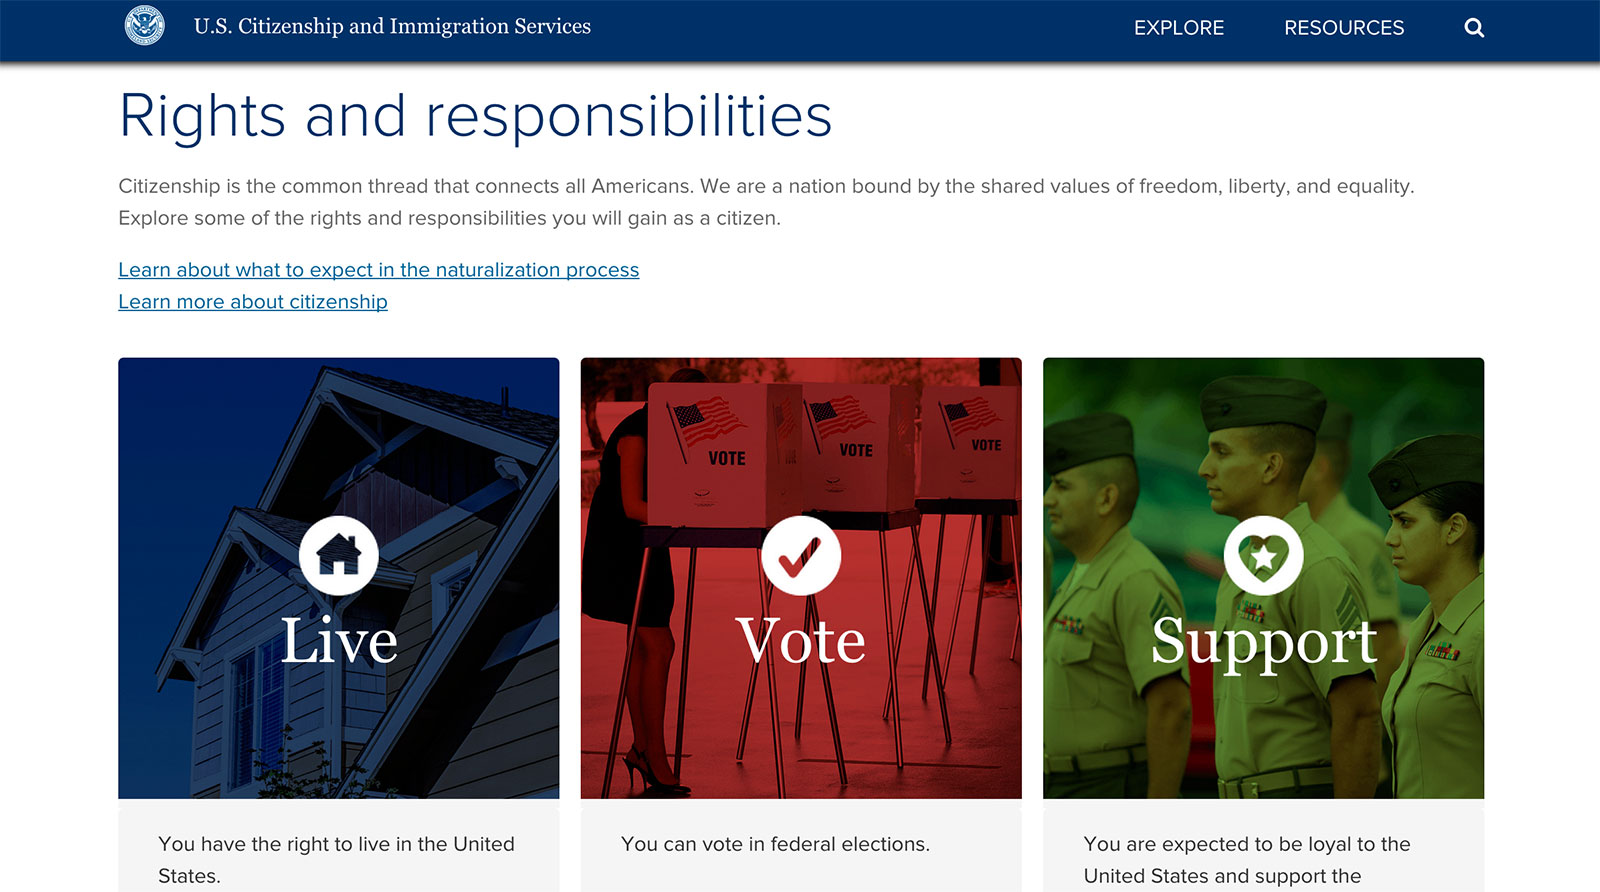
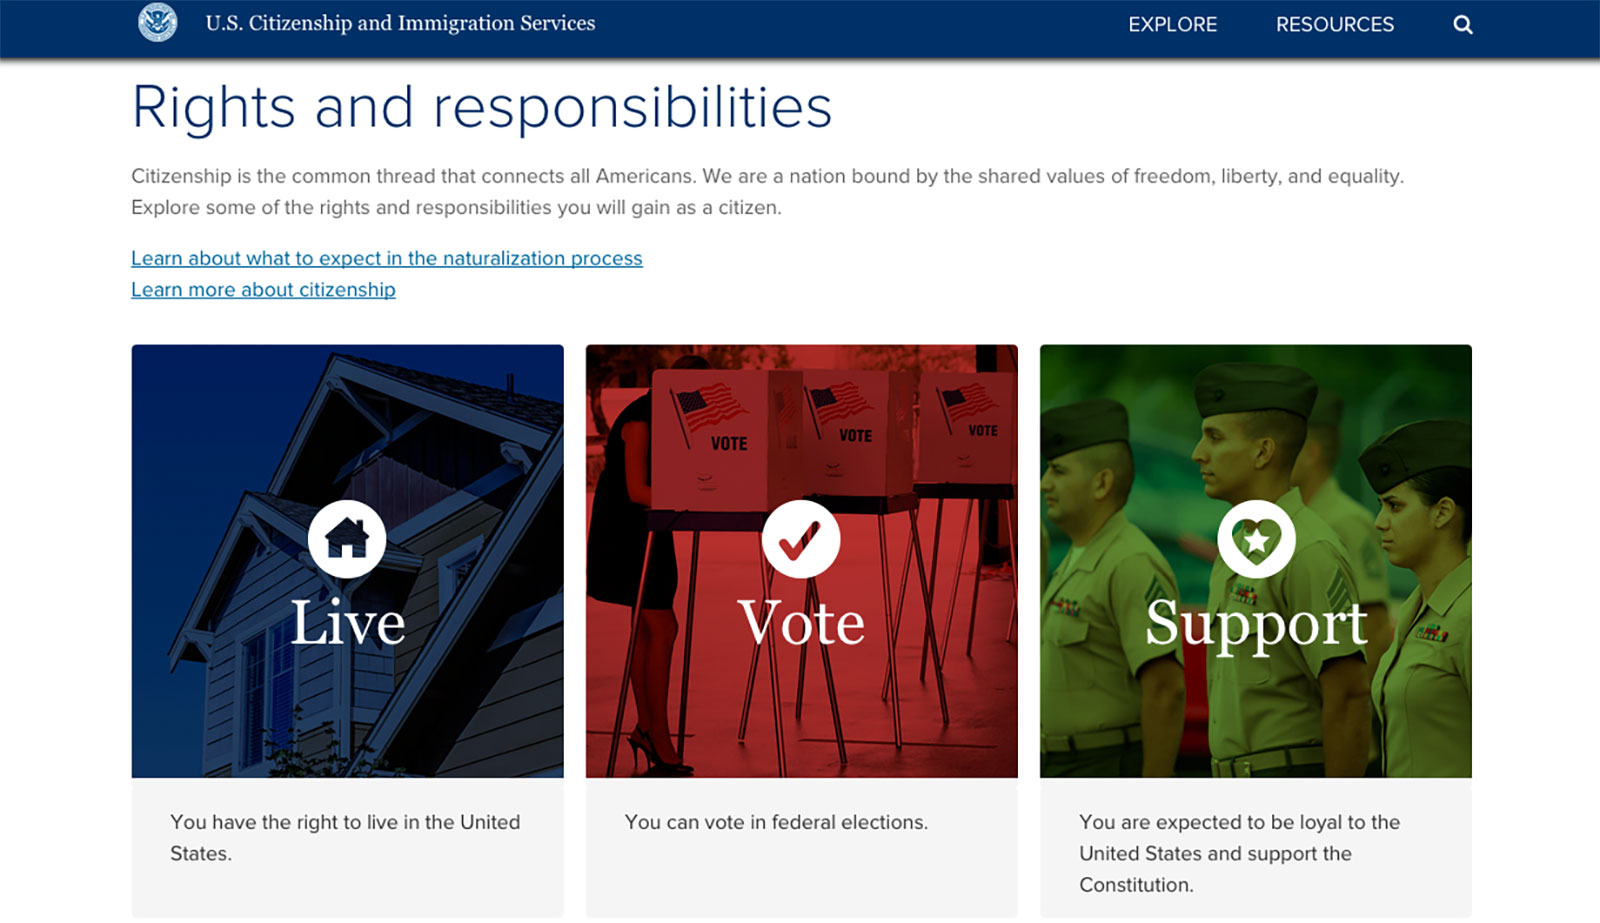
uscis post and images

diff --git a/_posts/2015-09-21-new-citizenship-resources.md b/_posts/2015-09-21-new-citizenship-resources.md
@@ -1,0 +1,157 @@
+---
+title: New citizenship resources demystify the naturalization process
+tags:
+- design
+- how we work
+- our projects
+- proactive federal partner
+authors:
+- kate
+- jhunter
+- rebeccapiazza
+- meghana
+- ryan
+excerpt: "For many people, September conjures up happy memories of heading back to school, new backpack and supplies in tow. For new and aspiring citizens, September has additional significance: It’s when the federal government celebrates Constitution Week, a weeklong observance commemorating the adoption of the U.S. Constitution."
+description: "USCIS, with the help of 18F, debuted a suite of new and updated resources for aspiring citizens to learn about the naturalization process."
+image: /assets/blog/citizenshipweek/rights-and-responsibilities.jpg
+---
+
+For many people, September conjures up happy memories of heading back to
+school, new backpack and supplies in tow. For new and aspiring citizens,
+September has additional significance: It’s when the federal government
+celebrates [Constitution
+Week](http://www.uscis.gov/news/news-releases/uscis-welcome-more-36000-citizens-during-annual-constitution-day-and-citizenship-day-celebrations),
+a weeklong observance commemorating the adoption of the [U.S.
+Constitution](http://www.archives.gov/exhibits/charters/constitution.html).
+
+Observed Sept. 17–23, Constitution Week is a time devoted to promoting
+the study of our nation’s supreme law and recognizing new citizens.
+Sept. 17 marked Constitution Day and Citizenship Day, which provides a
+time for folks to reflect on the rights and responsibilities that come
+along with U.S. citizenship. It’s also a great time for aspiring
+citizens to learn more about the naturalization process.
+
+To help promote Constitution Week, we teamed up with the [U.S.
+Citizenship and Immigration Services](http://www.uscis.gov/) (USCIS) to
+create new resources to complement existing citizenship-focused content
+as part of a national, multilingual [public awareness
+campaign](http://www.uscis.gov/citizenship/organizations/citizenship-public-education-and-awareness-campaign)
+[that launched this summer](https://committocitizenship.org/). Since
+last year, 18F has been working with USCIS to develop
+[my.uscis.gov](https://my.uscis.gov/), a customer-facing site to help
+users navigate their relationship with the agency. The team included
+contractors, USCIS, and 18F employees. The resources that were just
+announced are only the most recent effort we’ve undertaken together.
+
+Without further ado, here’s a quick rundown of the new and updated
+resources just announced by USCIS.
+
+## A new page with general information about naturalization
+
+One of the main insights we took away from our user interviews is that
+USCIS customers would like more high-level information about the
+naturalization process: What it involves, how long it takes, what
+expectations USCIS has of the customer, and so on.
+
+Our goal was to provide a single, easy-to-read reference for customers
+who are still deciding whether to apply for citizenship. It was our hope
+that, by seeing the steps of the naturalization process outlined,
+aspiring citizens might feel more optimistic about the process and more
+quickly get started with their applications.
+
+To meet this user need, we created a [What to
+expect](https://my.uscis.gov/citizenship/what_to_expect) page. Using
+clear, straightforward language, the page describes the main steps in
+the naturalization process, offering customers a comprehensive view of
+what they’re about to get into.
+
+## A new page that better communicates the rights and responsibilities of citizenship
+
+Another of our goals was to provide USCIS customers with a quick
+reference to the rights and responsibilities of U.S. citizens. [The
+Citizenship Resource Center](http://www.uscis.gov/citizenship)
+(CRC) already provides some great
+in-depth materials, and we drew on these as we built out a [new
+marketing page](https://my.uscis.gov/citizenship/information).
+
+If the CRC’s goal is to provide a comprehensive account of all the
+rights and responsibilities new citizens should know about, our goal was
+to translate that information into a fun, engaging page that would
+capture new customers’ attention. Our new, highly visual page links out
+to the existing CRC resources, making it easy for customers to quickly
+access more detailed information.
+
+![A screenshot of part of the new USCIS rights and responsibilities page](/assets/blog/citizenshipweek/rights-and-responsibilities.jpg)
+
+*The new USCIS rights and responsibilities page.*
+
+## More study resources for the civics test
+
+If you’re not familiar with the naturalization process, you might not
+know that all would-be citizens are required to take a civics test as
+part of their application process. The test covers basics of U.S.
+history and government, and some of the questions can be difficult for
+test takers who haven’t spent time preparing.
+
+To help customers hone their civics knowledge, the CRC provides
+[practice civics tests](https://my.uscis.gov/prep/test/civics) in
+multiple formats and languages. These practice exams feature questions
+from the actual test; customers who study using these practice exams
+tend to perform better on the actual exam than those who don’t.
+
+Our updates to the practice test make it even easier for customers to
+boost their civics knowledge. Some of these updates include:
+
+-   Clearer, more concise questions — we rewrote as much material as possible in plain language.
+
+-   Personalization — we now refer to the customer as “you,” which we hope mimics actual, face-to-face conversation.
+
+-   More and higher-quality images to accompany the test questions to help visual learners solidify their knowledge.
+
+-   An audio component that allows customers to hear recordings of all the test questions.
+
+We built and tested these (and all other) features for mobile, so
+customers can practice the civics test whenever it’s most convenient for
+them — when they’re waiting in line, on the bus, on lunch break, or
+during other spans of spare time. And we’ll continue collecting user
+feedback as we develop new features, too, to ensure we’re best meeting
+our customers’ needs.
+
+## English or citizenship prep class locator
+
+Last but not least, we introduced [a new
+tool](https://my.uscis.gov/findaclass) that will help customers find
+community-based English as a Second Language (ESL) resources. Just as
+aspiring citizens need to take a civics test, they also have to pass a
+brief English test to demonstrate their knowledge.
+
+The class locator makes it easy for customers to find ESL classes and
+study groups near them. What’s more, the tool distinguishes between
+accredited and non-accredited classes, allowing customers to make the
+most informed decision possible. Customers can also use the locator to
+find nearby citizenship preparation classes, which will help them
+navigate the naturalization process.
+
+![A map of English and citizenship classes](/assets/blog/citizenshipweek/classes.jpg)
+
+*The English and citizenship preparation class locator provides location and
+contact information.*
+
+Although participation in ESL classes is by no means required, many
+customers take the classes regardless. They’re a great way to practice
+conversational English, meet fellow aspiring citizens, and get involved
+in the community. Our hope is that, by making it easier for folks to
+find these classes, we’re encouraging increased community participation
+and inspiring more civic pride.
+
+## There’s more to come
+
+We’re really excited to announce these new resources, and we’re just as
+excited for what’s to come. In all of our undertakings with USCIS, our
+goal is to create tools, features, and content that’s as informative as
+it is engaging, and that’s accessible to the broadest possible customer
+base. To achieve this goal, we’ll keep interviewing customers and using
+their feedback to help us help them.
+
+***Members of the 18F USCIS project team, including Erica Deahl and Jen
+Ehlers, also contributed to this blog post.***
